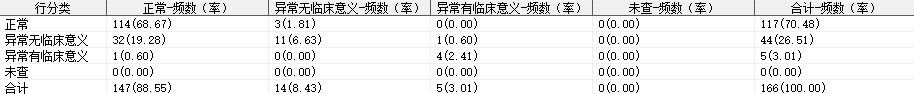
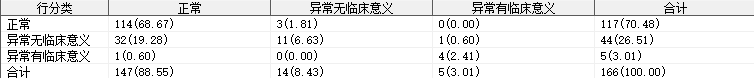
update

diff --git a/docs/crosstab/readme.md b/docs/crosstab/readme.md
@@ -73,25 +73,30 @@ indata = analysis
 
 将所有生成的变量列举于此，以便后续调试参考之用：
 
-| 变量名                 | 类型   | 含义                                | 是否保留 |
-| ---------------------- | ------ | ----------------------------------- | -------- |
-| ITEM                   | _char_ | 行分类名称                          | ✅       |
-| G*x*\_CAT*y*\_FREQ     | _num_  | 组别 _x_ 列分类 _y_ 频数            | ❎       |
-| G*x*\_CAT*y*\_RATE     | _num_  | 组别 _x_ 列分类 _y_ 率              | 否       |
-| G*x*\_CAT*y*\_FREQ_FMT | _char_ | 组别 _x_ 列分类 _y_ 频数格式化值    | 否       |
-| G*x*\_CAT*y*\_RATE_FMT | _char_ | 组别 _x_ 列分类 _y_ 率格式化值      | 否       |
-| G*x*\_CAT*y*\_VALUE    | _char_ | 组别 _x_ 列分类 _y_ 输出值          | **是**   |
-| G*x*\_CATM_FREQ        | _num_  | 组别 _x_ 列分类 `缺失` 频数         | 否       |
-| G*x*\_CATM_RATE        | _num_  | 组别 _x_ 列分类 `缺失` 率           | 否       |
-| G*x*\_CATM_FREQ_FMT    | _char_ | 组别 _x_ 列分类 `缺失` 频数格式化值 | 否       |
-| G*x*\_CATM_RATE_FMT    | _char_ | 组别 _x_ 列分类 `缺失` 率格式化值   | 否       |
-| G*x*\_CATM_VALUE       | _char_ | 组别 _x_ 列分类 `缺失` 输出值       | **是**   |
-| ALL_CAT&y.\_FREQ       | _num_  | 合计列分类 _y_ 频数                 | 否       |
-| ALL_CAT&y.\_RATE       | _num_  | 合计列分类 _y_ 率                   | 否       |
-| ALL_CAT&y.\_FREQ_FMT   | _char_ | 合计列分类 _y_ 频数格式化值         | 否       |
-| ALL_CAT&y.\_RATE_FMT   | _char_ | 合计列分类 _y_ 率格式化值           | 否       |
-| ALL_CAT&y.\_VALUE      | _char_ | 合计列分类 _y_ 输出值               | **是**   |
-| \_PLACEHOLDER\_        | _char_ | 占位符<sup>1</sup>                  | 否       |
+| 变量名                 | 类型   | 含义                             | 是否保留 |
+| ---------------------- | ------ | -------------------------------- | -------- |
+| ITEM                   | _char_ | 行分类名称                       | ✅       |
+| G*x*\_CAT*y*\_FREQ     | _num_  | 组别 _x_ 列分类 _y_ 频数         | ❎       |
+| G*x*\_CAT*y*\_RATE     | _num_  | 组别 _x_ 列分类 _y_ 率           | ❎       |
+| G*x*\_CAT*y*\_FREQ_FMT | _char_ | 组别 _x_ 列分类 _y_ 频数格式化值 | ❎       |
+| G*x*\_CAT*y*\_RATE_FMT | _char_ | 组别 _x_ 列分类 _y_ 率格式化值   | ❎       |
+| G*x*\_CAT*y*\_VALUE    | _char_ | 组别 _x_ 列分类 _y_ 输出值       | ✅       |
+| G*x*\_CATM_FREQ        | _num_  | 组别 _x_ 缺失频数                | ❎       |
+| G*x*\_CATM_RATE        | _num_  | 组别 _x_ 缺失率                  | ❎       |
+| G*x*\_CATM_FREQ_FMT    | _char_ | 组别 _x_ 缺失频数格式化值        | ❎       |
+| G*x*\_CATM_RATE_FMT    | _char_ | 组别 _x_ 缺失率格式化值          | ❎       |
+| G*x*\_CATM_VALUE       | _char_ | 组别 _x_ 缺失输出值              | ✅       |
+| G*x*\_CATT_FREQ        | _num_  | 组别 _x_ 合计频数                | ❎       |
+| G*x*\_CATT_RATE        | _num_  | 组别 _x_ 合计率                  | ❎       |
+| G*x*\_CATT_FREQ_FMT    | _char_ | 组别 _x_ 合计频数格式化值        | ❎       |
+| G*x*\_CATT_RATE_FMT    | _char_ | 组别 _x_ 合计率格式化值          | ❎       |
+| G*x*\_CATT_VALUE       | _char_ | 组别 _x_ 合计输出值              | ✅       |
+| ALL_CAT&y.\_FREQ       | _num_  | 分类 _y_ 频数                    | ❎       |
+| ALL_CAT&y.\_RATE       | _num_  | 分类 _y_ 率                      | ❎       |
+| ALL_CAT&y.\_FREQ_FMT   | _char_ | 分类 _y_ 频数格式化值            | ❎       |
+| ALL_CAT&y.\_RATE_FMT   | _char_ | 分类 _y_ 率格式化值              | ❎       |
+| ALL_CAT&y.\_VALUE      | _char_ | 分类 _y_ 输出值                  | ✅       |
+| \_PLACEHOLDER\_        | _char_ | 占位符<sup>1</sup>               | ❎       |
 
 G*x* 表示第 _x_ 个组别，CAT*y* 表示第 _y_ 个分类。
 
@@ -413,3 +418,39 @@ quit;
 ```
 
 ![Example-1](./assets/Example-1.png)
+
+### Example 2 对照试验
+
+```sas
+%crosstab(indata          = analysis,
+          outdata         = out(drop = ALL_:),
+          rowcat          = clsig,
+          colcat          = bclsig,
+          rowcat_by       = clsign.,
+          colcat_by       = clsign.,
+          rowcat_missing  = false,
+          colcat_missing  = false,
+          arm             = arm,
+          arm_by          = armn.,
+          format_rate     = srate.);
+```
+
+![Example-2](./assets/Example-2.png)
+
+### Example 3 仅输出频数
+
+```sas
+%crosstab(indata          = analysis,
+          outdata         = out(drop = ALL_:),
+          rowcat          = clsig,
+          colcat          = bclsig,
+          rowcat_by       = clsign.,
+          colcat_by       = clsign.,
+          rowcat_missing  = false,
+          colcat_missing  = false,
+          arm             = arm,
+          arm_by          = armn.,
+          output_rate     = false);
+```
+
+![Example-3](./assets/Example-3.png)
